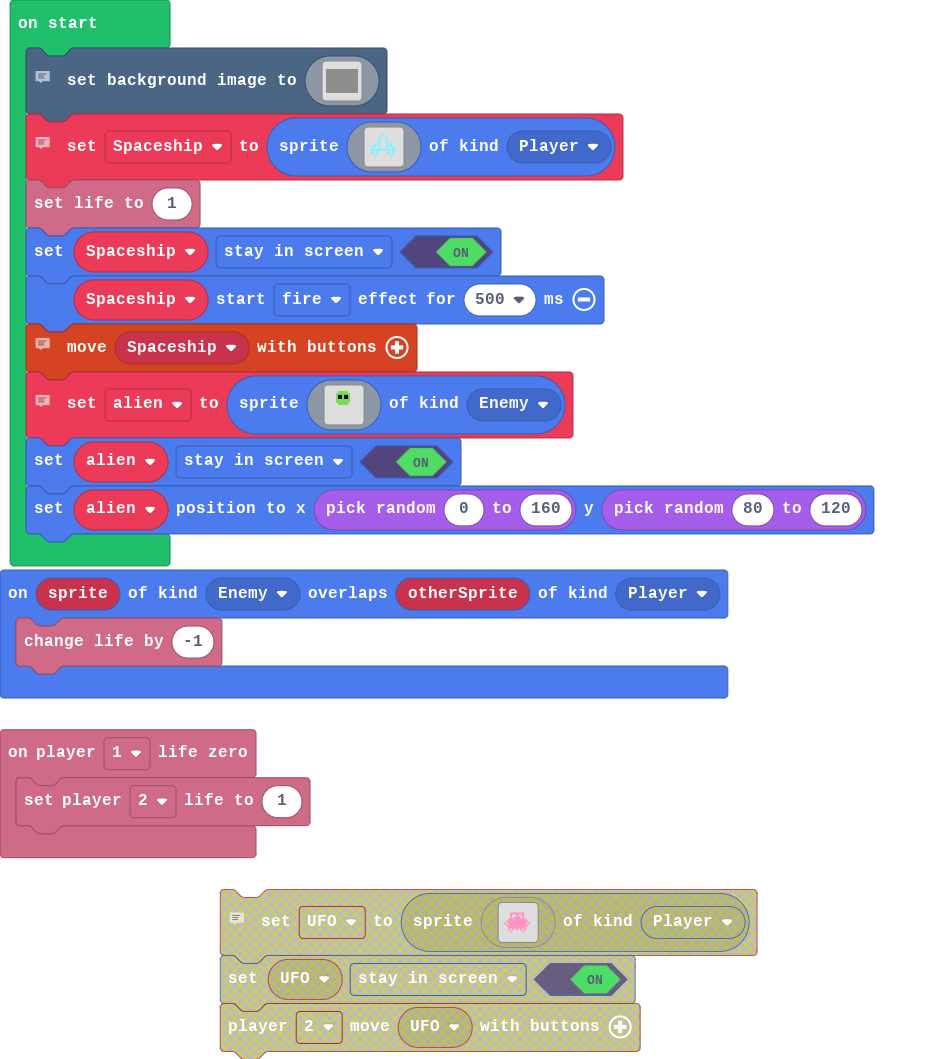
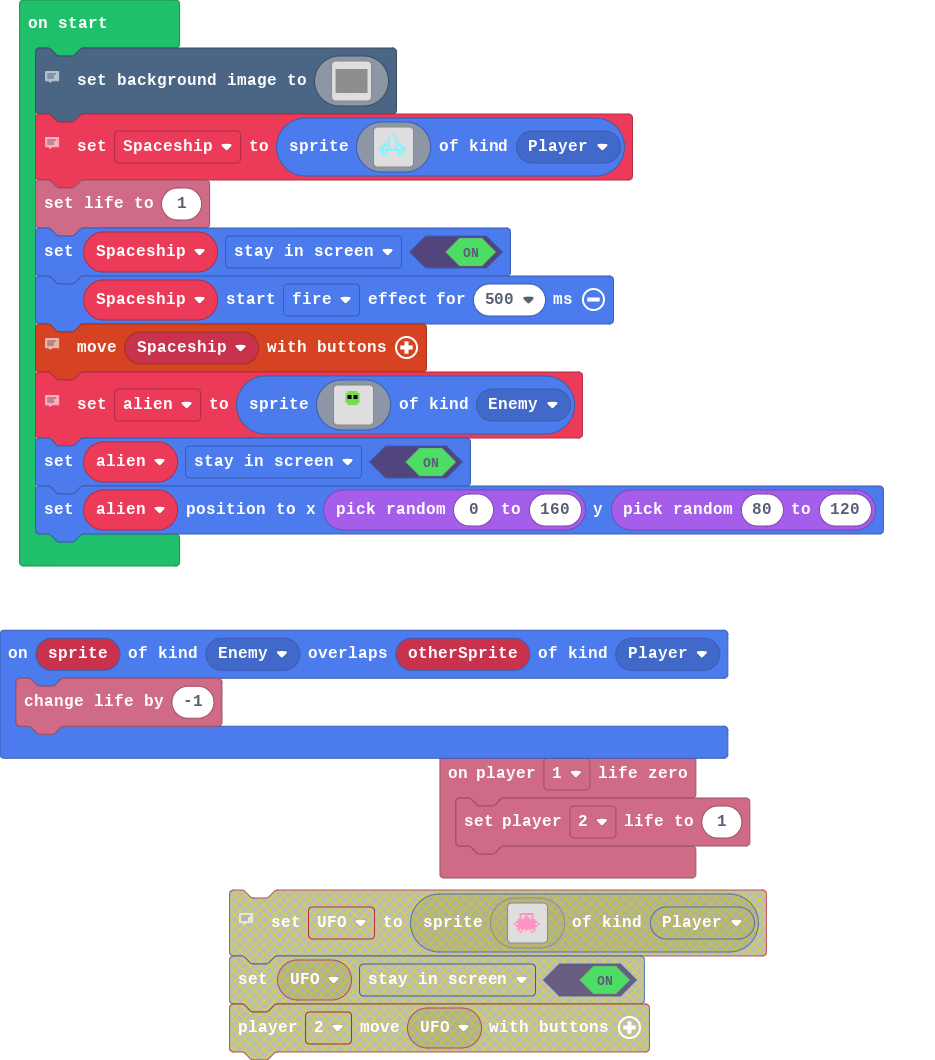
Update main.blocks, main.ts, main.py

Changed region(s): [[0.0, 0.0, 0.9676, 1.0]]

diff --git a/main.ts b/main.ts
@@ -1,9 +1,3 @@
-sprites.onOverlap(SpriteKind.Enemy, SpriteKind.Player, function on_on_overlap(sprite: Sprite, otherSprite: Sprite) {
-    info.changeLifeBy(-1)
-})
-info.player1.onLifeZero(function on_player1_life_zero() {
-    info.player2.setLife(1)
-})
 //  Setup Background
 scene.setBackgroundImage(img`
     f f f f f f f f f f f f f f f f f f f f f f f f f f f f f f f f f f f f f f f f f f f f f f f f f f f f f f f f f f f f f f f f f f f f f f f f f f f f f f f f f f f f f f f f f f f f f f f f f f f f f f f f f f f f f f f f f f f f f f f f f f f f f f f f f f f f f f f f f f f f f f f f f f f f f f f f f f f f f f f f 
@@ -127,6 +121,9 @@ scene.setBackgroundImage(img`
         f f f f f f f f f f f f f f f f f f f f f f f f f f f f f f f f f f f f f f f f f f f f f f f f f f f f f f f f f f f f f f f f f f f f f f f f f f f f f f f f f f f f f f f f f f f f f f f f f f f f f f f f f f f f f f f f f f f f f f f f f f f f f f f f f f f f f f f f f f f f f f f f f f f f f f f f f f f f f f f f 
         f f f f f f f f f f f f f f f f f f f f f f f f f f f f f f f f f f f f f f f f f f f f f f f f f f f f f f f f f f f f f f f f f f f f f f f f f f f f f f f f f f f f f f f f f f f f f f f f f f f f f f f f f f f f f f f f f f f f f f f f f f f f f f f f f f f f f f f f f f f f f f f f f f f f f f f f f f f f f f f f
 `)
+//  Setup game
+info.setScore(0)
+info.setLife(3)
 //  Setup Player 1
 let Spaceship = sprites.create(img`
         . . . . . . . . . . . . . . . . 
@@ -148,7 +145,6 @@ let Spaceship = sprites.create(img`
     `, SpriteKind.Player)
 info.setLife(1)
 Spaceship.setFlag(SpriteFlag.StayInScreen, true)
-Spaceship.startEffect(effects.fire, 500)
 //  Setup Player Controls
 controller.moveSprite(Spaceship)
 //  Setup Enemy

diff --git a/main.py b/main.py
@@ -1,11 +1,3 @@
-def on_on_overlap(sprite, otherSprite):
-    info.change_life_by(-1)
-sprites.on_overlap(SpriteKind.enemy, SpriteKind.player, on_on_overlap)
-
-def on_player1_life_zero():
-    info.player2.set_life(1)
-info.player1.on_life_zero(on_player1_life_zero)
-
 # Setup Background
 scene.set_background_image(img("""
     f f f f f f f f f f f f f f f f f f f f f f f f f f f f f f f f f f f f f f f f f f f f f f f f f f f f f f f f f f f f f f f f f f f f f f f f f f f f f f f f f f f f f f f f f f f f f f f f f f f f f f f f f f f f f f f f f f f f f f f f f f f f f f f f f f f f f f f f f f f f f f f f f f f f f f f f f f f f f f f f 
@@ -129,6 +121,13 @@ scene.set_background_image(img("""
         f f f f f f f f f f f f f f f f f f f f f f f f f f f f f f f f f f f f f f f f f f f f f f f f f f f f f f f f f f f f f f f f f f f f f f f f f f f f f f f f f f f f f f f f f f f f f f f f f f f f f f f f f f f f f f f f f f f f f f f f f f f f f f f f f f f f f f f f f f f f f f f f f f f f f f f f f f f f f f f f 
         f f f f f f f f f f f f f f f f f f f f f f f f f f f f f f f f f f f f f f f f f f f f f f f f f f f f f f f f f f f f f f f f f f f f f f f f f f f f f f f f f f f f f f f f f f f f f f f f f f f f f f f f f f f f f f f f f f f f f f f f f f f f f f f f f f f f f f f f f f f f f f f f f f f f f f f f f f f f f f f f
 """))
+
+
+# Setup game
+info.set_score(0)
+info.set_life(3)
+
+
 # Setup Player 1
 Spaceship = sprites.create(img("""
         . . . . . . . . . . . . . . . . 
@@ -147,13 +146,15 @@ Spaceship = sprites.create(img("""
             . . . . . . . . . . . . . . . . 
             . . . . . . . . . . . . . . . . 
             . . . . . . . . . . . . . . . .
-    """),
-    SpriteKind.player)
+            """),
 info.set_life(1)
 Spaceship.set_flag(SpriteFlag.STAY_IN_SCREEN, True)
-Spaceship.start_effect(effects.fire, 500)
+
+
 # Setup Player Controls
 controller.move_sprite(Spaceship)
+
+
 # Setup Enemy
 alien = sprites.create(img("""
         . . . . . . . . . . . . . . . . 
